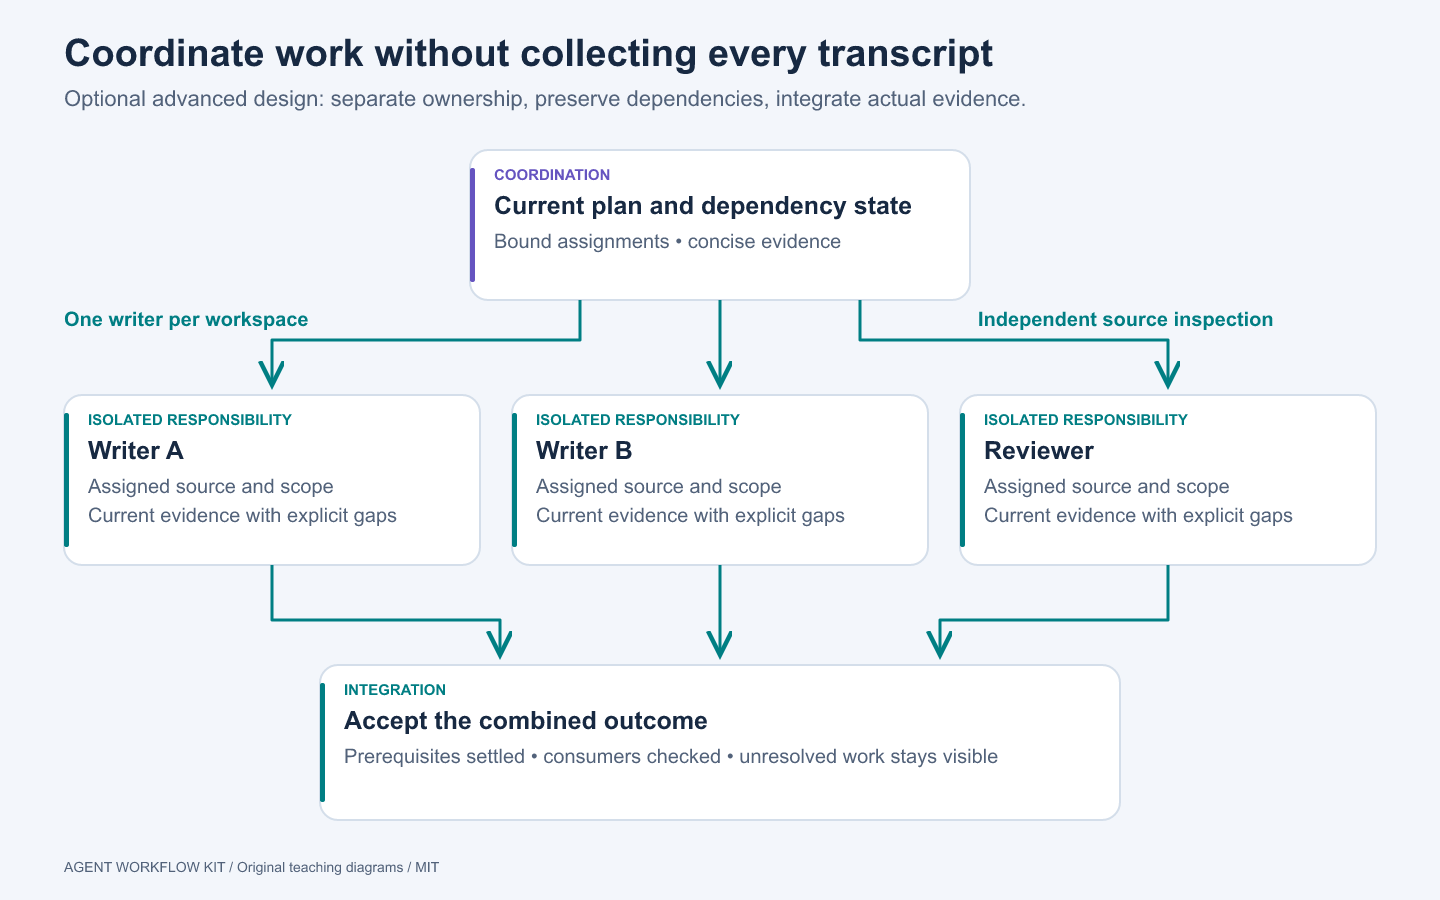
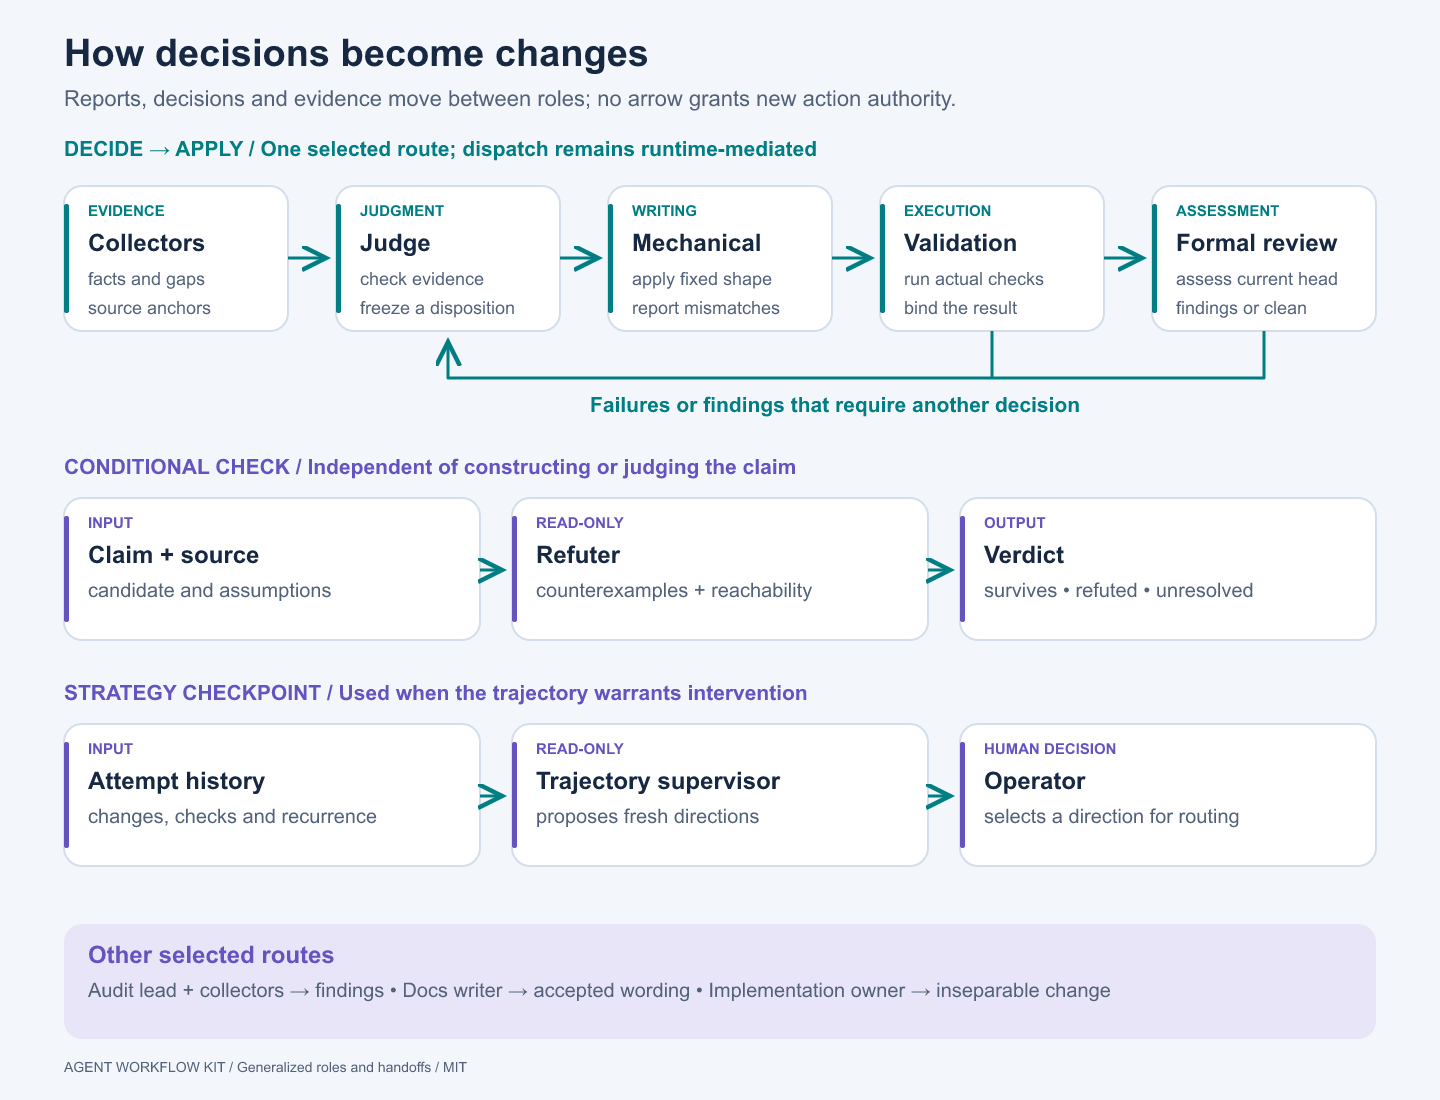
Explain agent roles and decision-to-implementation handoffs

diff --git a/docs/AGENT_ROLES.md b/docs/AGENT_ROLES.md
@@ -1,0 +1,84 @@
+# Agent roles and how work moves between them
+
+The workflow separates **finding facts, judging claims, applying a decided change, and challenging the result**. Treating all of those as a generic “worker” hides the reason for the role system.
+
+This guide generalizes the role responsibilities and routing found in the author's Runtime source. It preserves the distinctions without distributing private role prompts, schemas, model assignments or operating limits. Readers can adapt the design; the kit's small executable demo does not dispatch these workers.
+
+![Role map: operator, coordinator and runtime controls; four evidence and judgment workers; three writing workers; a trajectory supervisor and separate formal review.](../assets/diagrams/agent-roles.png)
+
+## Operator, coordinator and runtime
+
+| Participant | Responsibility | Boundary |
+| --- | --- | --- |
+| **Operator** | Sets goals, confirms scope and consequential actions, resolves material choices and selects a new strategy when needed. | An agent's proposal is not an operator decision. |
+| **Coordinator** | Maintains the overall task, prepares bounded assignments, selects the appropriate workflow, integrates compact reports and presents decisions/blockers. | In this architecture, active-workflow source edits belong to assigned writers. The coordinator does not become another writer. |
+| **Runtime controllers** | Enforce configured permissions, assign workspaces, schedule work, preserve identity and state, observe completion and route results. | These are code, not another model role. They enforce authorization rather than invent it. |
+
+The coordinator is the main agent session. The eight worker roles below are distinct assignments, not eight agents that must always run together.
+
+## Eight worker roles
+
+The short keys identify the conceptual roles being generalized; they are not configuration accepted by the teaching demo.
+
+| Role | Question it owns | Expected output | Writes? |
+| --- | --- | --- | --- |
+| **Evidence collector** (`collect`) | What is actually present at this source revision and assigned surface? | Facts, source anchors, searches behind absence claims, uncertainty and coverage gaps. | No. It gathers evidence rather than choosing a design or fix. |
+| **Audit lead** (`auditor`) | What consequential risks does this scoped audit reveal? | A prioritized assessment that separates observed defects, inference and unresolved evidence. | No. It may request bounded collectors for missing evidence. |
+| **Decision judge** (`judge`) | What conclusion or bounded disposition does the evidence support? | A source-checked decision, including refuted claims and remaining questions. | No. It verifies load-bearing evidence rather than accepting collector conclusions blindly. |
+| **Independent refuter** (`refuter`) | Can this claim be disproved by actual code, reachability or a counterexample? | A survives/refuted/unresolved verdict, evidence and remaining assumptions. | No. It must be independent of constructing or judging the claim. |
+| **Mechanical writer** (`mechanical`) | How do I apply this already-decided change faithfully? | A bounded diff, conformance evidence and assigned validation. | Yes, inside the assigned scope. A stale edit shape or new design choice returns to judgment. |
+| **Documentation writer** (`docs`) | How do I apply the accepted wording or documentation decision consistently? | Scoped documentation edits, corrected references and reported out-of-scope drift. | Yes, in assigned documentation. It does not decide new policy or author a new contract on its own. |
+| **Implementation owner** (`implement`) | What change solves the problem when reasoning and editing cannot usefully be separated? | A coherent implementation, causal explanation, tests and unresolved risks. | Yes. Use for genuinely interdependent control-flow, lifecycle or ownership work; scope-changing choices still stop for a decision. |
+| **Trajectory supervisor** (`supervisor`) | What does the history of attempts reveal about stalled or recurring failure? | Several fresh candidate directions informed by the whole trajectory. | No. It neither chooses nor ranks a preferred direction, and it does not dispatch work. The operator selects. |
+
+An audit lead supervises evidence collection. A trajectory supervisor examines progress across attempts. The shared word “supervisor” does not give them the same job.
+
+A formal PR reviewer or review service is a separate integration. The judge and refuter do not automatically satisfy the repository's final review policy.
+
+## Choose a route for the task
+
+| Situation | Appropriate route | Result |
+| --- | --- | --- |
+| One factual question | Collector → coordinator | A bounded answer or evidence gap. |
+| Scoped audit | Audit lead ↔ collectors → coordinator | Prioritized findings; no implementation implied. |
+| Design or finding disposition | Judge ↔ collectors → coordinator | A decision or an unresolved question. |
+| Decided implementation | Accepted decision → mechanical writer | An implementation of the frozen edit shape. |
+| Review findings needing a fix | Judge ↔ collectors → mechanical writer → validation → formal review | Decision and application remain separate; evidence follows the changed candidate. |
+| Accepted wording change | Documentation writer → documentation checks | Wording applied without reopening policy. |
+| Inseparable reasoning and implementation | Implementation owner → validation → formal review | A bounded unsplit change, with appropriate independent checks. |
+| A claim needs adversarial examination | Independent refuter ↔ collectors where permitted | Counterevidence or an explicit remaining gap. |
+| Repeated failure or stalled progress | Attempt history → trajectory supervisor → operator → coordinator | A chosen new direction within existing or newly approved scope. |
+
+These are selected routes, not a mandatory production line. A small factual lookup does not require a judge, writer and refuter. A straightforward decided edit need not be re-designed. Conversely, calling a design task “mechanical” does not remove its decisions.
+
+## The decision/application split
+
+![Handoffs: evidence supports a judge, a ready decision passes to a mechanical writer, and validation and formal review assess the candidate. Independent refutation and trajectory review are separate conditional routes.](../assets/diagrams/coordination.png)
+
+The judge inspects evidence and states what should change. The mechanical writer applies that decision without introducing another design. If the source no longer matches the decision, the writer reports the mismatch instead of improvising. Review findings return through judgment before another mechanical application.
+
+The implementation-owner route exists because some problems cannot be frozen into a reliable edit recipe before working through the code. Choosing that route should be explicit. It is not a blanket escape from the decision/application split.
+
+For example, a recurring parser defect may begin with collectors checking callers and test coverage. The judge identifies the violated parsing invariant and the affected cases. The mechanical writer applies the agreed correction and tests. If the issue instead depends on exploratory ownership or asynchronous lifecycle reasoning that changes as code is inspected, use the implementation owner. A relevant refuter then challenges the resulting claim independently; formal review still follows local policy.
+
+## Delegation and independence
+
+Where the selected workflow enables it, auditor, judge and refuter sessions may request **read-only collectors**. The runtime admits only bounded child questions inside the parent's existing surface and budget. Collectors are leaves; this is not an unrestricted tree of agents that can spawn writers.
+
+The trajectory supervisor is a separate read-only worker, not the coordinator and not the generic collector-parent route. It receives retained attempt/validation/review history and proposes alternatives. Strategy selection remains with the operator.
+
+Return compact reports with source identity, observations, uncertainties and next evidence needed. The parent must still check load-bearing anchors. A separate session can reduce contamination; using a different model alone does not establish independence if it receives the author's preferred conclusion as a premise.
+
+## Role profiles belong in configuration
+
+A role is a capability and responsibility boundary, not a model name. Keep the selected model, reasoning settings, tool ceiling, timeout, concurrency and allowed child roles in validated configuration. Check the effective worker profile before work begins. A worker prompt cannot expand its own tools or assignment.
+
+Collection and frozen edits can use a model selected for efficient, reliable execution; judgment, refutation and difficult implementation need demonstrated reasoning quality. Evaluate those choices against representative tasks. Do not hard-code today's model names into the conceptual role definitions.
+
+A role card should state purpose, inputs, output, permitted actions, stop conditions and delegation. The runtime must separately enforce the permissions it claims. A sentence saying “read-only” is not a security boundary.
+
+## What to add to your own extension
+
+Start by supporting only the roles your first workflow needs. Carry role and assignment identity alongside the plan, source revision, allowed paths and output contract. Add tests that a collector cannot write, a judge cannot dispatch an unapproved writer, a mechanical writer cannot silently alter the decided shape, and a trajectory supervisor cannot select its own strategy. Implement the actual enforcement points before claiming these properties.
+
+See [the extension framework](EXTENSION_FRAMEWORK.md) for the separation between policy and Pi integration, and [the build milestones](BUILD_MILESTONES.md) for worker execution, validation and review integration.

diff --git a/docs/VISUALS.md b/docs/VISUALS.md
@@ -66,23 +66,54 @@ flowchart LR
   Verify -->|repeat adoption| Mapping
 ```
 
-## Optional coordination
+## Role map
 
-[SVG](../assets/diagrams/coordination.svg) · [PNG](../assets/diagrams/coordination.png)
+[SVG](../assets/diagrams/agent-roles.svg) · [PNG](../assets/diagrams/agent-roles.png) · [Role guide](AGENT_ROLES.md)
 
-![A coordinator assigns independent work and integrates concise evidence from isolated writers and reviewers.](../assets/diagrams/coordination.png)
+![Operator, coordinator and runtime controls; eight specialist worker roles and separate formal review.](../assets/diagrams/agent-roles.png)
 
-Workers receive bounded assignments. Reviewers inspect actual source. Integration checks the combined outcome and dependent consumers; it is not simply a collection of green worker reports.
+This is a responsibility map, not an instruction to run every role. The operator decides, the coordinator routes, and runtime code enforces the selected workflow. The eight worker roles have different inputs, permissions and outputs.
 
 ```mermaid
 flowchart TB
-  Coordinator[Plan and dependency state] --> A[Writer A: assigned workspace]
-  Coordinator --> B[Writer B: assigned workspace]
-  Coordinator --> Reviewer[Reviewer: actual candidate source]
-  A --> Integration[Combined acceptance and consumer evidence]
-  B --> Integration
-  Reviewer --> Integration
-  Integration -->|unresolved outcome| Coordinator
+  Operator[Operator: goals and decisions] --> Coordinator[Coordinator: bounded assignments]
+  Coordinator --> Evidence[Evidence and judgment]
+  Evidence --- Collector[Collector]
+  Evidence --- Auditor[Audit lead]
+  Evidence --- Judge[Decision judge]
+  Evidence --- Refuter[Independent refuter]
+  Coordinator --> Writing[Assigned writing]
+  Writing --- Mechanical[Mechanical writer]
+  Writing --- Docs[Documentation writer]
+  Writing --- Implement[Implementation owner]
+  Coordinator --> Supervisor[Trajectory supervisor: alternatives]
+  Supervisor -->|directions, not a selection| Operator
+  Runtime[Runtime code: permissions, state, execution] -. enforces selected routes .-> Coordinator
+```
+
+## Role handoffs
+
+[SVG](../assets/diagrams/coordination.svg) · [PNG](../assets/diagrams/coordination.png)
+
+![Evidence, judgment and decided application followed by validation and formal review; separate conditional refutation and trajectory routes.](../assets/diagrams/coordination.png)
+
+The main row shows a selected decision/application route. Its arrows carry reports, decisions, candidates and results; actual dispatch remains runtime-mediated under coordinator/operator authority. The other rows show conditional alternatives, not automatic extra stages.
+
+```mermaid
+flowchart LR
+  Collect[Collectors] -->|evidence| Judge[Judge]
+  Judge -->|ready decision within authority| Mechanical[Mechanical writer]
+  Mechanical -->|candidate| Validate[Validation]
+  Validate -->|passing candidate| Review[Formal review]
+  Review -->|findings| Judge
+  Validate -->|failure requiring diagnosis| Judge
+  Claim[Claim and source] --> Refuter[Independent refuter]
+  Refuter -->|targeted question when permitted| Child[Read-only collector]
+  Child -->|evidence| Refuter
+  Refuter --> Verdict[Survives, refuted or unresolved]
+  History[Attempt history] --> Supervisor[Trajectory supervisor]
+  Supervisor -->|candidate directions| Operator[Operator selects]
+  Operator --> Coordinator[Coordinator routes the selected next step]
 ```
 
 ## Rule to mechanism

diff --git a/README.md b/README.md
@@ -11,6 +11,7 @@ A practical blueprint for turning an engineering process into an agent workflow:
 | You want to… | Start here |
 | --- | --- |
 | Understand how the pieces fit | [Workflow handbook](docs/WORKFLOW.md) |
+| Understand the agent roles and handoffs | [Role guide and map](docs/AGENT_ROLES.md) |
 | Have an agent adapt your repository | [Adoption guide and prompt](docs/ADOPTION.md) |
 | Build your own Pi workflow extension | [Architecture and build path](docs/EXTENSION_FRAMEWORK.md) |
 | Try a small working example | [Pi teaching extension](examples/pi-workflow/README.md) |
@@ -18,6 +19,14 @@ A practical blueprint for turning an engineering process into an agent workflow:
 | Explore diagrams and research influences | [Visual guide](docs/VISUALS.md) · [Sources](docs/SOURCES.md) |
 
 The full workflow is explained, but adoption is proportional. A small change may need an issue, a test and a review. A long-running multi-repository change may need explicit dependencies, durable evidence and a controller that remembers what is current.
+
+## Who does the work?
+
+The coordinator routes work among eight specialist roles: **collector, auditor, judge, refuter, mechanical writer, documentation writer, implementation owner, and trajectory supervisor**. The role guide explains when each is used, what it may change, and how decisions move to implementation.
+
+![Eight worker roles, with operator decisions, coordinator routing and runtime enforcement kept distinct.](assets/diagrams/agent-roles.png)
+
+The important handoff is often **evidence → judgment → decided application**, followed by validation and formal review. Difficult inseparable work uses the implementation-owner route. Repeated failure goes to a trajectory supervisor, which proposes directions for the operator to choose. [Read the role and routing guide](docs/AGENT_ROLES.md).
 
 ## Included
 

diff --git a/docs/VALIDATION.md b/docs/VALIDATION.md
@@ -1,4 +1,4 @@
-# Initial validation record
+# Validation record
 
 Verified on 2026-09-05. Exact repeatable commands are owned by [CONTRIBUTING.md](../CONTRIBUTING.md). This record describes teaching-kit evidence, not a production harness certification.
 
@@ -34,3 +34,9 @@ The demo's result covers one JSON fixture and its bound commit/input digest. It 
 Pi session fixtures and lifecycle behavior are version-specific. The synthetic greeting initializes host persistence and is explicitly not model output. Local records rely on the trusted host and are not signed or transactionally crash-proof. Windows/Linux host execution and other Pi versions have not been manually verified; the observed environment was macOS with Node.js 26.8.1.
 
 Original content and the staged payload were reviewed for private repository links, local paths, copied private implementation and credentials. Public publication remains a separate decision.
+
+## Role documentation update — 2026-09-05
+
+The role guide was checked against the author's Runtime role definitions and dispatch paths. It generalizes eight worker responsibilities, bounded collector delegation, the judgment/application split and operator selection after trajectory review, without distributing private prompts or configuration.
+
+The new role map and revised handoff diagram were rendered and inspected at full size and 800-pixel README width. The repository now contains six diagram sources. TypeScript compilation, all 20 existing behavioral tests, and documentation/link/skill checks passed after this update. No adapter behavior changed; the earlier Pi integration observations remain the applicable record. The teaching demo still does not dispatch or enforce these worker roles.

diff --git a/docs/EXTENSION_FRAMEWORK.md b/docs/EXTENSION_FRAMEWORK.md
@@ -22,6 +22,12 @@ Costs include a maintained program, host API coupling, persisted-data versions a
 
 This separation is a design goal, not a claim that existing runtimes have achieved portability. A Pi extension may own substantial orchestration and depend deeply on Pi's session branches, compaction, settled events, RPC workers and TUI. Extracting it can require redesigning lifecycle and recovery, not swapping an adapter. Keep that cost visible as your own extension grows.
 
+## Assign responsibilities before dispatch
+
+The [role guide](AGENT_ROLES.md) lays out the eight worker roles and their handoffs. Separate the coordinator from writers, factual collection from judgment, and judgment from applying a decided change. A trajectory supervisor examines attempts and offers directions; the operator chooses. Formal review remains a distinct integration.
+
+Define each supported role's inputs, output, tool ceiling, source/path binding, stop conditions and permitted children. Verify the effective profile at startup. Do not turn a diagram or a role prompt into an unsupported permission guarantee. The teaching example does not implement worker dispatch.
+
 ## Written rule to tested mechanism
 
 | Rule | Mechanism | Negative test | Judgment left |

diff --git a/skills/design-workflow-extension/references/design-prompts.md b/skills/design-workflow-extension/references/design-prompts.md
@@ -2,6 +2,9 @@
 
 For each mechanism, settle these questions from source and accepted intent; ask only about choices that cannot be discovered.
 
+- Which responsibilities need distinct roles: collection, audit, judgment, independent refutation, mechanical or documentation writing, inseparable implementation, and trajectory review? Keep coordinator routing and operator decisions separate.
+- Can judgment be frozen before a writer applies it, or must reasoning and implementation stay together? What happens when a mechanical assignment encounters a new design choice?
+- Which roles may request bounded read-only collectors? Do not infer permission to spawn writers or unrestricted descendants.
 - What state changes action eligibility? Who may create each transition?
 - What exactly does an operator decision authorize, and how does a model proposal differ?
 - Which root, candidate, dirty inputs and execution attempt bind a result?

diff --git a/docs/BUILD_MILESTONES.md b/docs/BUILD_MILESTONES.md
@@ -16,6 +16,8 @@ Each slice needs observable behavior, failure tests and a disable path. Finish i
 
 ## Worker lifecycle
 
+Choose supported responsibilities using the [role guide](AGENT_ROLES.md) before adding dispatch. Define the collector, judgment and writing boundaries and select only the routes your workflow needs. Role identity and permission checks accompany workspace and attempt identity.
+
 Distinguish requested, admitted, running, settling and terminal states when processes are introduced. "Done" text does not prove process exit or workspace release. Bind results to unique attempts and reject old-generation delivery.
 
 Assign ownership of cancellation, streams, timeouts and cleanup. Restrict workers through controls appropriate to the host. Do not widen tool permissions when a configured tool is unavailable. Preserve dirty or unmerged work and uncertain processes for explicit disposition.

diff --git a/docs/WORKFLOW.md b/docs/WORKFLOW.md
@@ -53,6 +53,8 @@ A blocker report names what failed, what remains usable, the event or action tha
 
 ## Several workers or repositories
 
+Use the [role guide](AGENT_ROLES.md) to distinguish evidence collection, audit, judgment, independent refutation, decided writing, inseparable implementation and trajectory review. These are selected responsibilities, not interchangeable workers.
+
 Delegate concrete independent work when useful and allowed. Freeze inputs, source revision, paths, exclusions and expected output. Workers cannot expand authority by rewriting their assignment.
 
 Use one writer per workspace. Coordinators integrate concise evidence and resolve dependencies; they do not need every transcript. Reviewers inspect load-bearing source rather than accepting another worker's conclusions as proof.

diff --git a/docs/INDEX.md b/docs/INDEX.md
@@ -1,6 +1,7 @@
 # Documentation map
 
 - [Workflow](WORKFLOW.md): engineering loop, evidence and proportionality.
+- [Agent roles](AGENT_ROLES.md): responsibilities, permissions, delegation and handoffs.
 - [Adoption](ADOPTION.md): map this workflow onto an existing repository.
 - [Extension framework](EXTENSION_FRAMEWORK.md): why and how to automate.
 - [Contracts](CONTRACTS.md): records, ownership and freshness.
